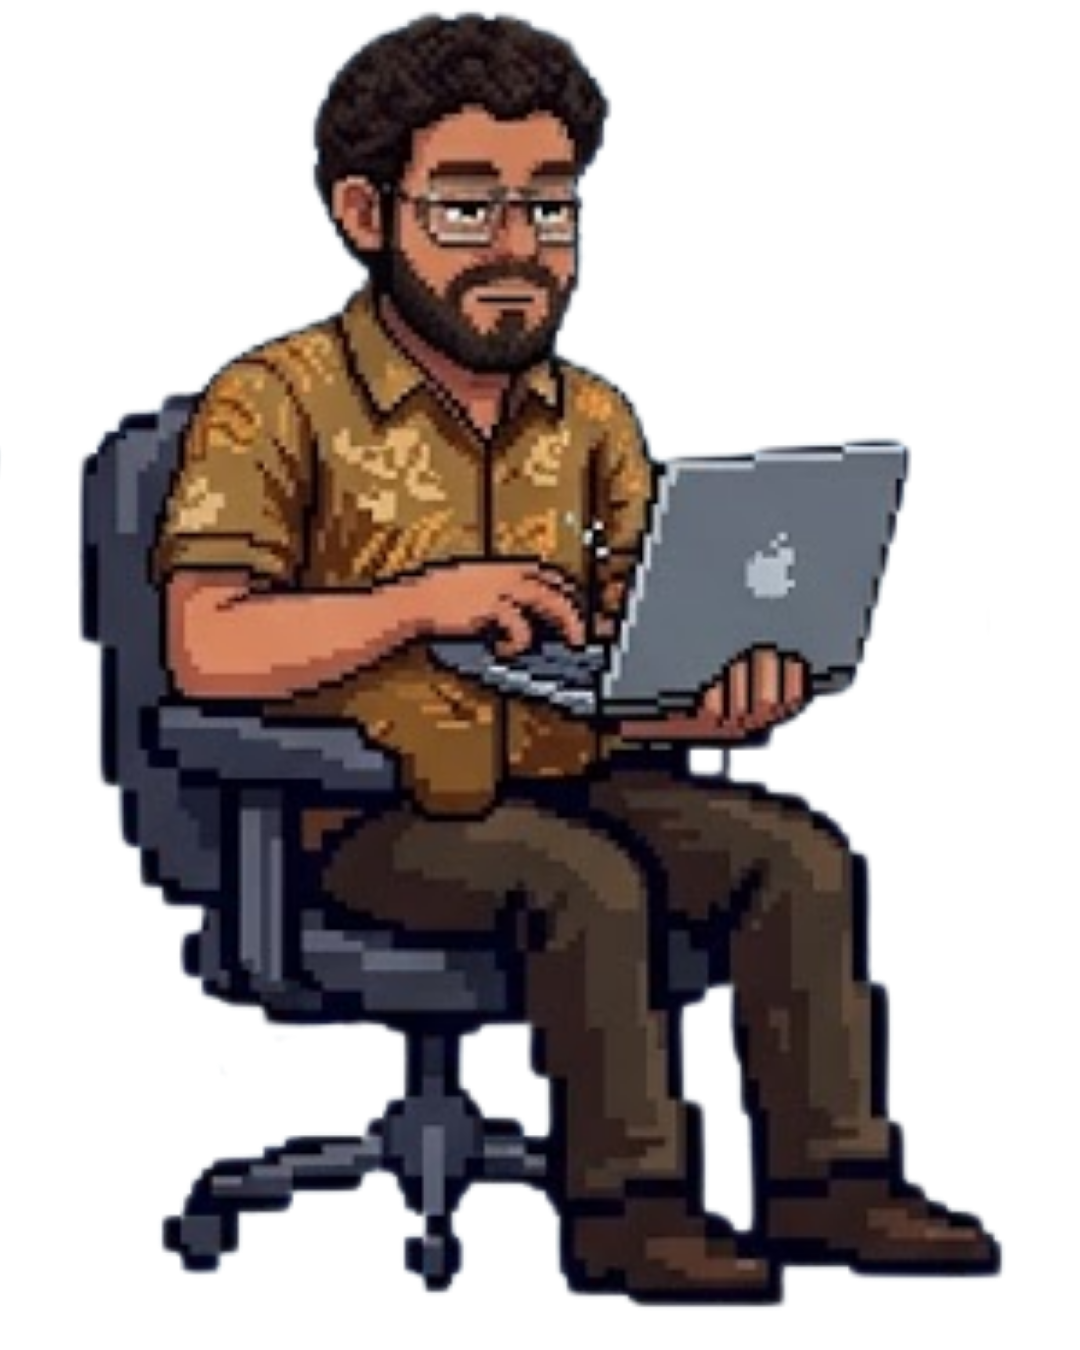
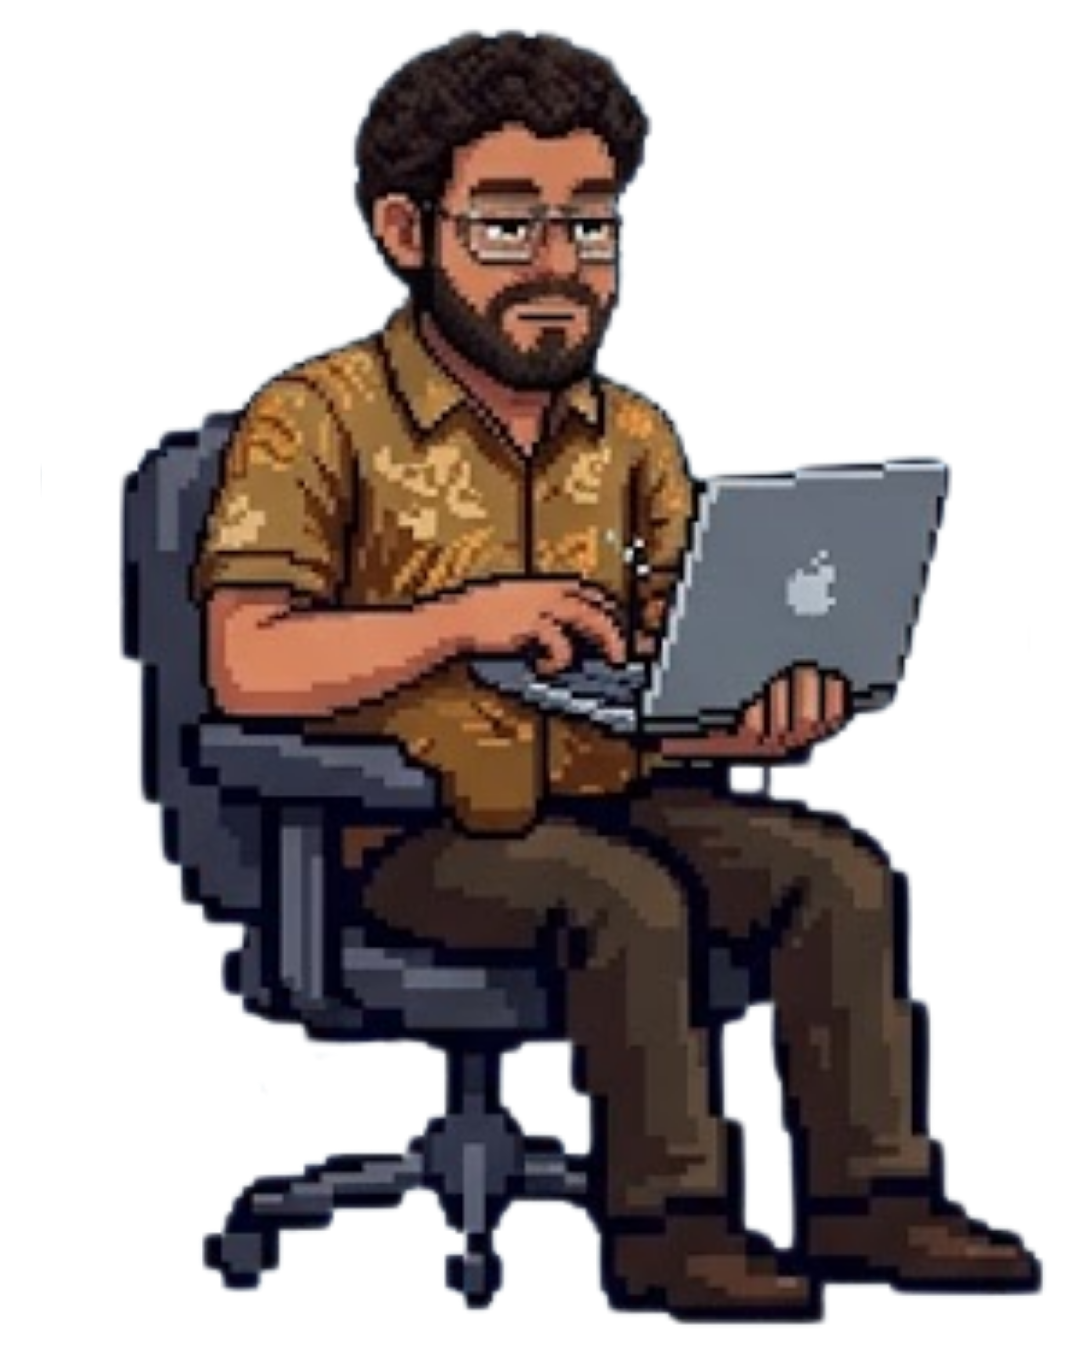
agregando a cesar en el formDecanato

diff --git a/JUEGO INGENIERIA/Vistas/FormDecanato.cs b/JUEGO INGENIERIA/Vistas/FormDecanato.cs
@@ -27,6 +27,11 @@ public partial class FormDecanato : Form
     private Image imgFlavioTranquilo;
     private Image imgFlavioActual;
 
+    private Image imgCesar1;
+    private Image imgCesar2;
+    private Image imgCesar3;
+    private Image imgCesarActual;
+
     // NUEVA variable para que no te atrape infinitamente
     private bool menuAperturaBloqueada = false;
 
@@ -81,8 +86,14 @@ public partial class FormDecanato : Form
         imgFlavioHablando3 = Properties.Resources.flavioHablando3;
         imgFlavioTranquilo = Properties.Resources.flavioTranquilo;
         imgFlavioActual = imgFlavioHablando2;
+        
+        imgCesar1 = Properties.Resources.cesar1;
+        imgCesar2 = Properties.Resources.cesar2;
+        imgCesar3 = Properties.Resources.cesar3;
+        imgCesarActual = imgCesar1;
 
         pictureBox1.Visible = false;
+        pictureBox16.Visible = false;
         timer1.Start();
 
         if (pbPersonaje == null)
@@ -99,7 +110,7 @@ public partial class FormDecanato : Form
         // ESCONDER NATIVAMENTE LAS DECORACIONES PARA CORTAR EL "INVALIDATE COSTOSO"
         foreach (Control control in this.Controls)
         {
-            if (control is PictureBox x && x != pictureBox1 && x != pbPersonaje && x != pbPizarra && x != pictureBox2 && x != pictureBox3 && x != pictureBox4)
+            if (control is PictureBox x && x != pictureBox1 && x != pbPersonaje && x != pbPizarra && x != pictureBox2 && x != pictureBox3 && x != pictureBox4 && x != pictureBox16)
             {
                 if (x.Name.StartsWith("pictureBox"))
                 {
@@ -156,6 +167,10 @@ public partial class FormDecanato : Form
         {
             e.Graphics.DrawImage(imgFlavioActual, pictureBox1.Bounds);
         }
+        if (imgCesarActual != null)
+        {
+            e.Graphics.DrawImage(imgCesarActual, pictureBox16.Bounds);
+        }
 
         // Dividido en Frente y Fondo para Z-Index, como en Form1 puro
         List<PictureBox> capaFondo = new List<PictureBox>();
@@ -163,7 +178,7 @@ public partial class FormDecanato : Form
 
         foreach (Control control in this.Controls)
         {
-            if (control is PictureBox x && x != pictureBox1 && x != pbPersonaje && x != pbPizarra)
+            if (control is PictureBox x && x != pictureBox1 && x != pbPersonaje && x != pbPizarra && x != pictureBox16)
             {
                 // Solo renderizamos si NO tiene la tag que indica que estaba oculto a propósito antes en el designer
                 if ((string)x.Tag != "muro" && x.Name.StartsWith("pictureBox") && (string)x.Tag != "oculto_intencional")
@@ -218,12 +233,25 @@ public partial class FormDecanato : Form
         }
         switch (pasoAnimacion)
         {
-            case 0: imgFlavioActual = imgFlavioHablando1; break;
-            case 1: imgFlavioActual = imgFlavioHablando2; break;
-            case 2: imgFlavioActual = imgFlavioHablando3; break;
-            case 3: imgFlavioActual = imgFlavioTranquilo; break;
+            case 0: 
+                imgFlavioActual = imgFlavioHablando1; 
+                imgCesarActual = imgCesar1;
+                break;
+            case 1: 
+                imgFlavioActual = imgFlavioHablando2; 
+                imgCesarActual = imgCesar2;
+                break;
+            case 2: 
+                imgFlavioActual = imgFlavioHablando3; 
+                imgCesarActual = imgCesar3;
+                break;
+            case 3: 
+                imgFlavioActual = imgFlavioTranquilo; 
+                imgCesarActual = imgCesar2;
+                break;
         }
         Invalidate(pictureBox1.Bounds);
+        Invalidate(pictureBox16.Bounds);
     }
 
     private void tmrRevisarZonas_Tick(object sender, EventArgs e)

diff --git a/JUEGO INGENIERIA/Vistas/FormDecanato.Designer.cs b/JUEGO INGENIERIA/Vistas/FormDecanato.Designer.cs
@@ -90,7 +90,7 @@
             // 
             pictureBox1.BackColor = Color.Transparent;
             pictureBox1.Image = Properties.Resources.flavioHablando2;
-            pictureBox1.Location = new Point(839, 257);
+            pictureBox1.Location = new Point(829, 230);
             pictureBox1.Margin = new Padding(3, 4, 3, 4);
             pictureBox1.Name = "pictureBox1";
             pictureBox1.Size = new Size(158, 253);
@@ -434,10 +434,10 @@
             // 
             pictureBox16.BackColor = Color.Transparent;
             pictureBox16.Image = Properties.Resources.cesar1;
-            pictureBox16.Location = new Point(265, 549);
+            pictureBox16.Location = new Point(177, 463);
             pictureBox16.Margin = new Padding(3, 4, 3, 4);
             pictureBox16.Name = "pictureBox16";
-            pictureBox16.Size = new Size(111, 206);
+            pictureBox16.Size = new Size(198, 292);
             pictureBox16.SizeMode = PictureBoxSizeMode.StretchImage;
             pictureBox16.TabIndex = 24;
             pictureBox16.TabStop = false;

diff --git a/JUEGO INGENIERIA/Program.cs b/JUEGO INGENIERIA/Program.cs
@@ -15,7 +15,7 @@ namespace JUEGO_INGENIERIA
             Application.EnableVisualStyles();
             Application.SetCompatibleTextRenderingDefault(false);
             //FormNivel2())
-            Application.Run(new Form1());
+            Application.Run(new FormDecanato(new Jugador()));
         }
 
     }
